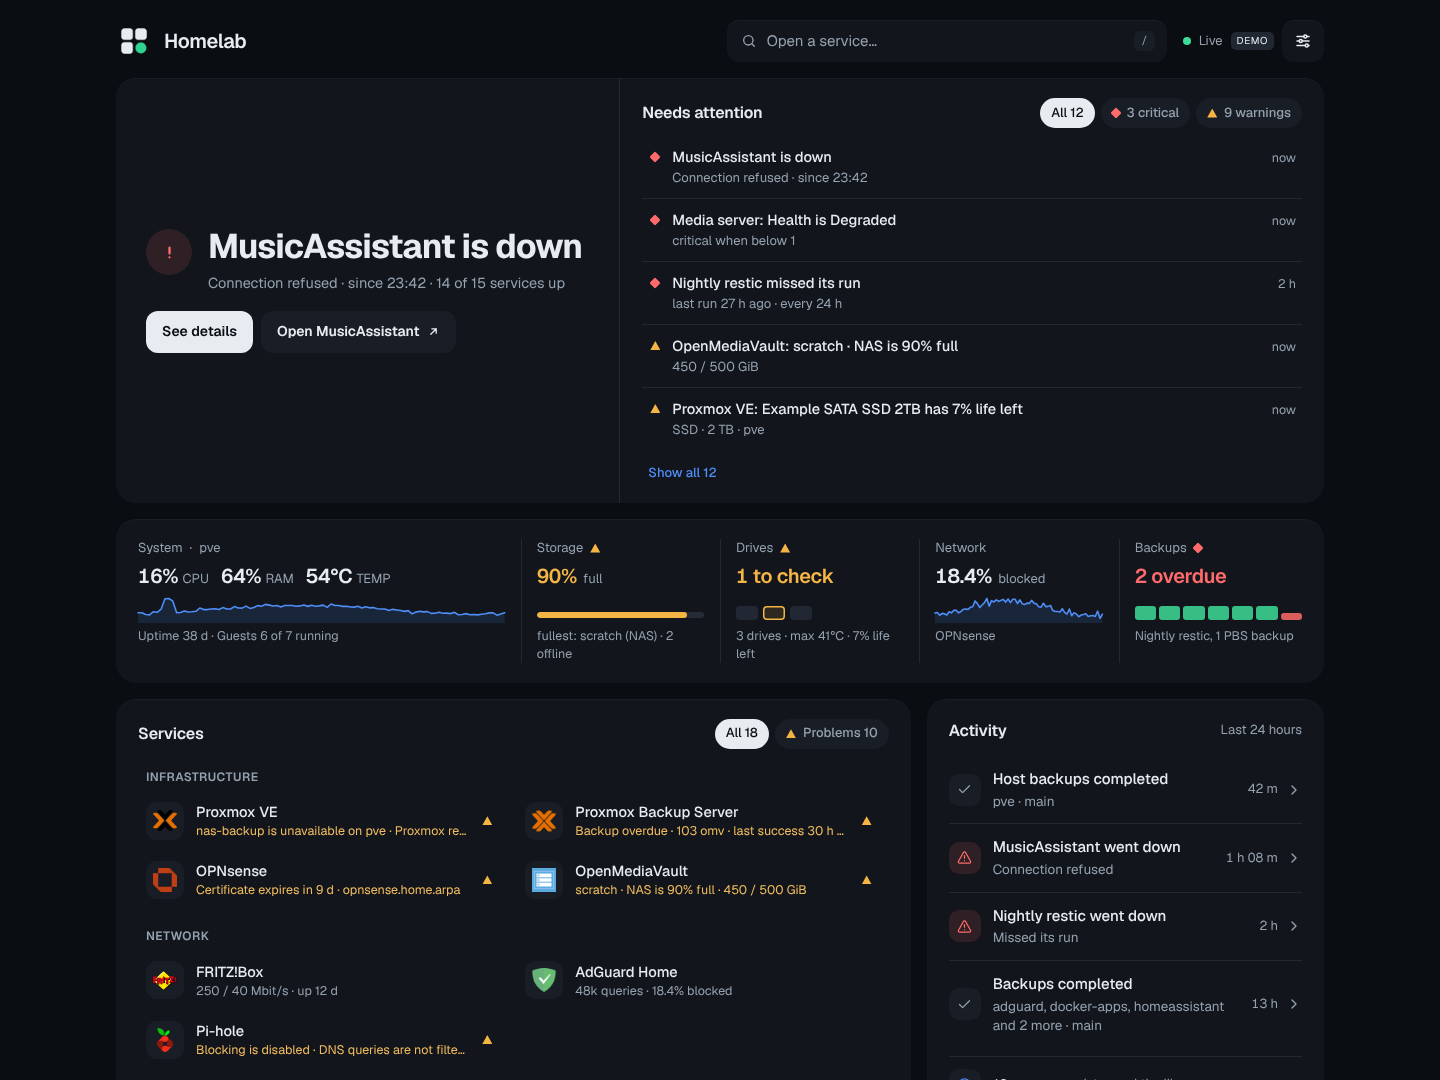
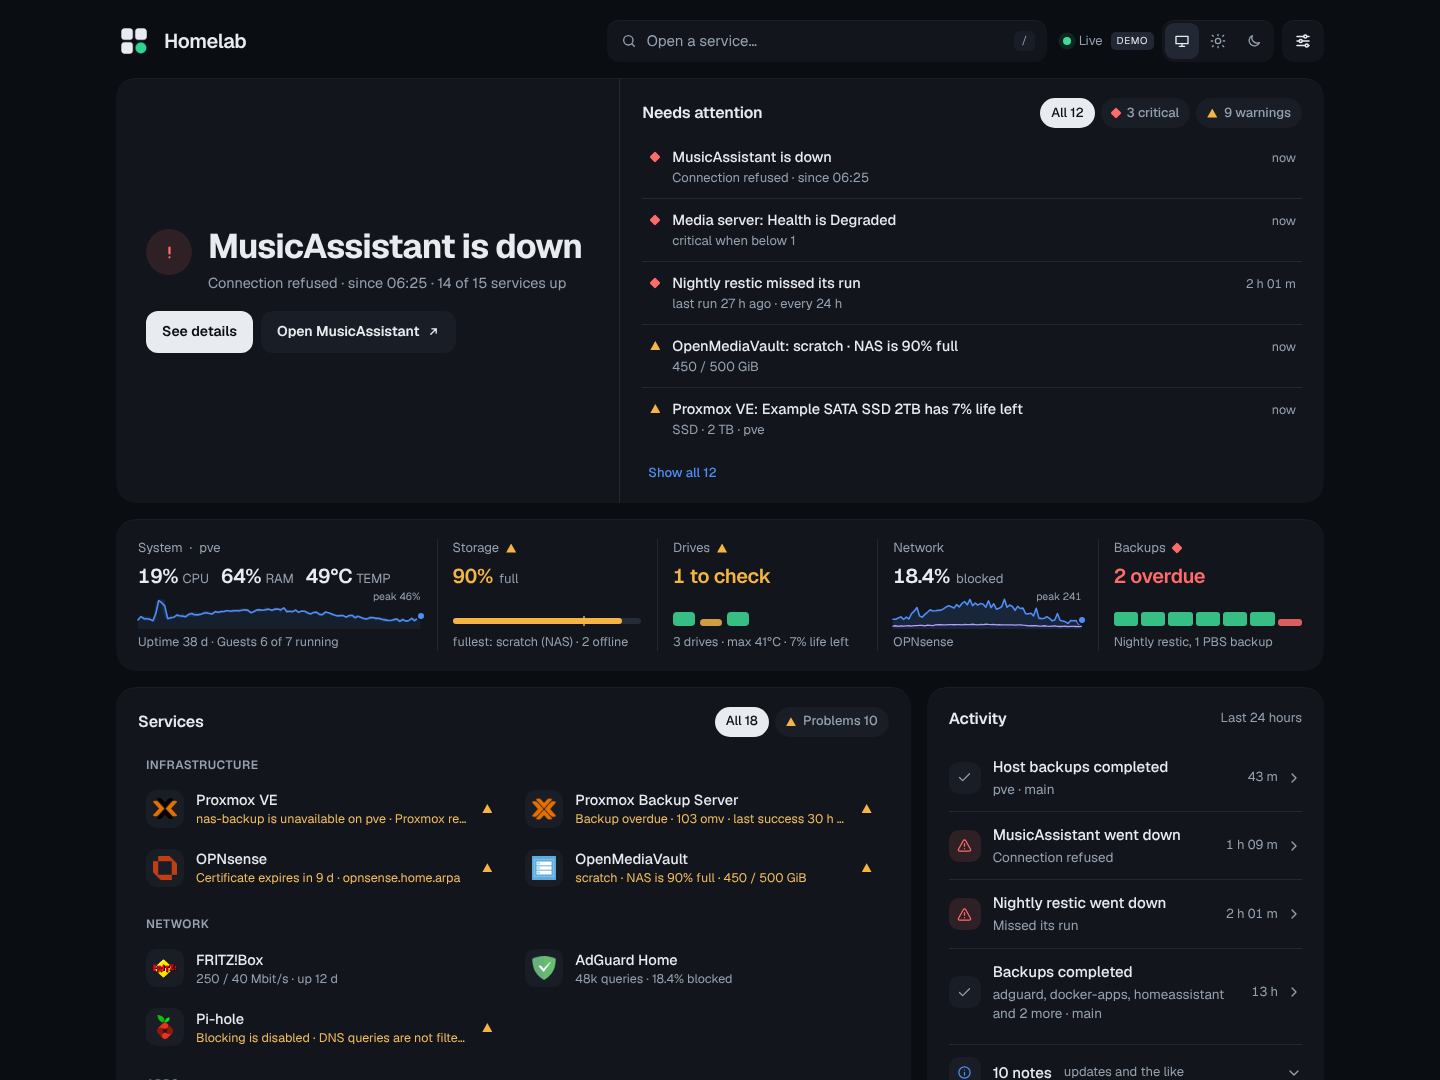
Release 0.4.0: version, docs and screenshots
- package.json 0.4.0; the pinned image tag in README and docs/deployment.md
- README: the strip's peaks, the sheet's traffic and DNS charts, and a new
  screenshot of the Infrastructure sheet (System and Network on a phone)
- Retaken desktop and phone screenshots for the reworked stats views;
  CONTRIBUTING describes the new one

Claude-Session: https://claude.ai/code/session_01BawsohcbaCwGbQoPVLYXZX

diff --git a/README.md b/README.md
@@ -11,7 +11,7 @@ It is made for your **LAN or VPN** (WireGuard, Tailscale, …): it has no login 
 ![Dashboard in dark mode with problems: the top problem with its buttons, beside it everything that needs attention, the infrastructure strip with a small chart per area, a tile per service with its status line, and recent activity](docs/screenshots/desktop-dark.png)
 
 - **One glance.** One sentence gives the state ("All 15 services up · 3 jobs on schedule", or the most important problem with buttons to see its details and open that service). Beside it, everything else that needs attention is listed once, most severe first, with how long each has been raised and a filter by level. When all is well, the page is short and quiet.
-- **Infrastructure at a glance, details on demand.** One strip with a cell per area, each with its figure and a small picture of it: **System** (CPU, memory, temperature of the Proxmox node or the machine the dashboard runs on, with the CPU's last 24 hours), **Storage** (the fullest), **Drives** (SMART health, one mark per drive), **Network** (traffic, DNS block rate) and **Backups** (PBS and backup jobs, the last seven days). Each one opens its tab of a sheet with the full detail: 24-hour charts with a labelled scale that you can scrub through (CPU, disk I/O, temperature, with the range of readings around each line; memory and disk fill as bars with their 24 h change), every storage with its fill, grouped by the host or NAS it belongs to, every drive with SMART health, traffic charts, each backup job's schedule.
+- **Infrastructure at a glance, details on demand.** One strip with a cell per area, each with its figure and a small picture of it: **System** (CPU, memory, temperature of the Proxmox node or the machine the dashboard runs on, with the CPU's last 24 hours and its peak), **Storage** (the fullest), **Drives** (SMART health, one mark per drive), **Network** (traffic with its peak, DNS block rate) and **Backups** (PBS and backup jobs, the last seven days). Each one opens its tab of a sheet with the full detail: 24-hour charts with a labelled scale that you can scrub through (CPU, disk I/O, temperature, with the range of readings around each line; memory and disk fill as bars with their 24 h change), every storage with its fill, grouped by the host or NAS it belongs to, every drive with SMART health, WAN and LAN traffic charts, DNS queries per hour with the blocked share, each backup job's schedule.
 - **Launcher and status in one.** The services you open most, picked automatically, then a tile for every service and job, grouped as in `services.yaml`: a tap opens the service, and the line under its name says how it is. The button at the tile's end (or a long press) opens its details, and a filter shows only the ones with a problem. Press `/` or `⌘K` / `Ctrl+K` for the command palette.
 - **Checks.** Services are checked every 30 s over HTTP or `tcp://`, which gives uptime (24 h and 7 d), p95 latency and a 24-hour health strip; each service's sheet shows them and lists the service's events of the last 7 days. The dashboard also tracks certificate expiry, backup age per guest, failed or unhealthy containers, SMART status and firewall gateways. Pending updates (Proxmox, OpenMediaVault, OPNsense, Home Assistant, and container images through What's Up Docker) and low batteries in Home Assistant are notes, folded into one row of Activity. Tapping a row in Activity opens its service's sheet, or the Backups tab for backups; outages shorter than 5 minutes stay out of Activity.
 - **Live and installable.** Updates are pushed to the browser as they happen, and a service whose status changes is briefly highlighted. If updates stop, the page says so and greys out instead of showing old data as current. It installs as an app (PWA) on phones and desktops, with the number of open problems on its icon, in light and dark themes. On a phone a bar at the bottom switches between Home, Services, Search and Alerts, and details open in a sheet you drag up or swipe away.
@@ -27,6 +27,8 @@ It is made for your **LAN or VPN** (WireGuard, Tailscale, …): it has no login 
 ![Light mode with everything healthy: "All 15 services up", the most used services, the infrastructure strip, the service tiles and recent activity](docs/screenshots/desktop-light.png)
 
 ![On a phone: Home in dark mode with the top problem, the way to all problems, the most used services and the infrastructure strip above the bottom bar; and the Services view in light mode with everything healthy, a row per service with its status line](docs/screenshots/phones.png)
+
+![The Infrastructure sheet on a phone: the System tab in dark mode with memory and disk as bars, then CPU and disk I/O as 24-hour charts with a labelled scale; and the Network tab in light mode with WAN and LAN traffic charts and DNS queries per hour](docs/screenshots/infrastructure.png)
 
 Every screenshot shows the built-in demo data (`DEMO=1`), not a real homelab.
 
@@ -50,7 +52,7 @@ mkdir -p config && docker run --rm --user "$(id -u):$(id -g)" -v "$PWD/config:/s
 # compose.yaml
 services:
   dashboard:
-    image: matthabjan/homelab-dashboard:0.3.5 # pin a version, update deliberately
+    image: matthabjan/homelab-dashboard:0.4.0 # pin a version, update deliberately
     restart: unless-stopped
     ports:
       - 127.0.0.1:3000:3000 # localhost only; reach it from the LAN or VPN through a reverse proxy

diff --git a/CONTRIBUTING.md b/CONTRIBUTING.md
@@ -79,7 +79,7 @@ Guidelines: match gethomepage's widget fields where an equivalent exists. Never 
 - `npm run check` and `npm test` must pass. CI runs them, then builds the image and smoke-tests it in demo mode.
 - Update the docs when behaviour or configuration changes.
 - Screenshots help for UI changes. Take them in demo mode, never from a real setup.
-- The README screenshots are in `docs/screenshots/`. When the UI changes visibly, retake them in demo mode: desktop at 1440×1080, phones at 390×844 with 2× pixel density, side by side in `phones.png` (Home in the `issues` scenario in dark mode, the Services view in `calm` in light mode).
+- The README screenshots are in `docs/screenshots/`. When the UI changes visibly, retake them in demo mode: desktop at 1440×1080, phones at 390×844 with 2× pixel density, side by side in `phones.png` (Home in the `issues` scenario in dark mode, the Services view in `calm` in light mode) and in `infrastructure.png` (the Infrastructure sheet's System tab in `issues`, dark, and its Network tab in `calm`, light, with the `en-GB` locale so the chart times read 24 h).
 - The app icon ships with the app in `src/lib/server/default-images/`: `icon.svg` is the source of the PNG and ICO files beside it (512, 192 and 180 px as it is; the favicon at 16 and 32 px with rounded corners and the mark 30% larger), `icon-dark.svg` of `logo-dark.png` and `favicon-dark.ico`. `default-images.ts` decides when they are served instead of a file in `config/images/`.
 
 ## Releases (maintainers)

diff --git a/docs/deployment.md b/docs/deployment.md
@@ -30,7 +30,7 @@ In Portainer, open **Stacks → Add stack → Web editor** and paste:
 ```yaml
 services:
   dashboard:
-    image: matthabjan/homelab-dashboard:0.3.5  # pin a release; see Updating
+    image: matthabjan/homelab-dashboard:0.4.0  # pin a release; see Updating
     container_name: dashboard
     restart: unless-stopped
     environment:
